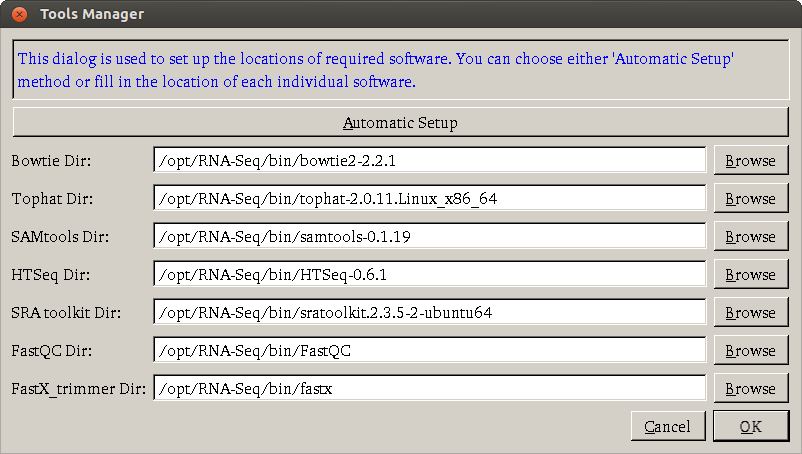
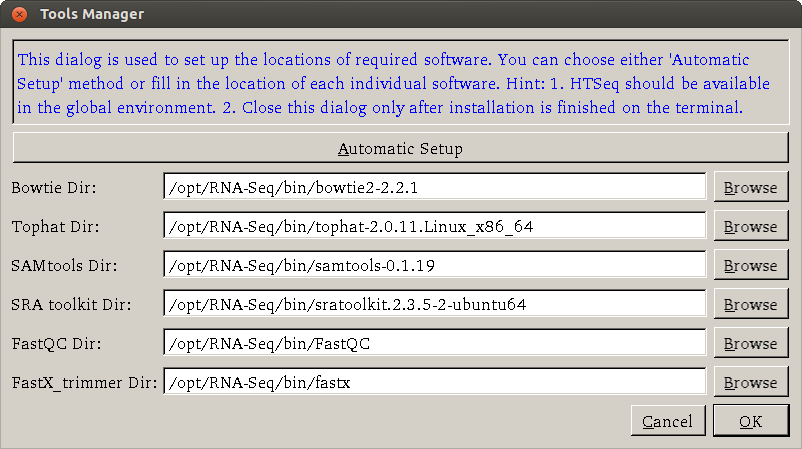
minor changes

diff --git a/index.html b/index.html
@@ -190,13 +190,15 @@
             <a href="images/automaticSetup.png"><img src="images/automaticSetup.png"></a>            
             <h4>Automatic method</h4> 
             <p class="lead">For aumatical setup method, users only need to click <strong>Automatic setup</strong> button. A new terminal window will open up. 
-            After you type sudo password the application will start to download and install required software. By default, all the
-            required software is installed under <code>/opt/RNA-Seq/bin</code> directory.</p>
+            After you type sudo password the application will start to download an installation script (which is kept updated) and install required software. 
+            All the required software is installed under <code>/opt/RNA-Seq/bin</code> directory.</p>
+            <p class="lead">After the installation is finished, users will be asked to hit ENTER key to close the terminal. Now they can go to the main dialog to 
+            continue to preprocess their data.</p>
             <h4>Manaul method</h4>
             <p class="lead">If users have already installed required software by themselves, they can click <strong>Browse</strong> button to select the 
-            directory for each software. After that, they can click OK button to enable their selections.</p>            
-            <p class="lead">Note that the setup is only needed to be run once. The paths for each required software will be remembered by <strong>PreProcessGUI</strong>.</p> 
-            <p class="lead">After the installation is finished, users can close the <strong>Tools Manager</strong> dialog and go to the main dialog to preprocess their data.</p>
+            directory for each software (It is assumed HTSeq is available under a global environment so there is no entry for it).
+            After that, they can click OK button to enable their selections.</p>            
+            <p class="lead">Note that the setup is only needed to be run once. The paths for each required software will be remembered by <strong>PreProcessGUI</strong>.</p>             
  
 					</section>
 
